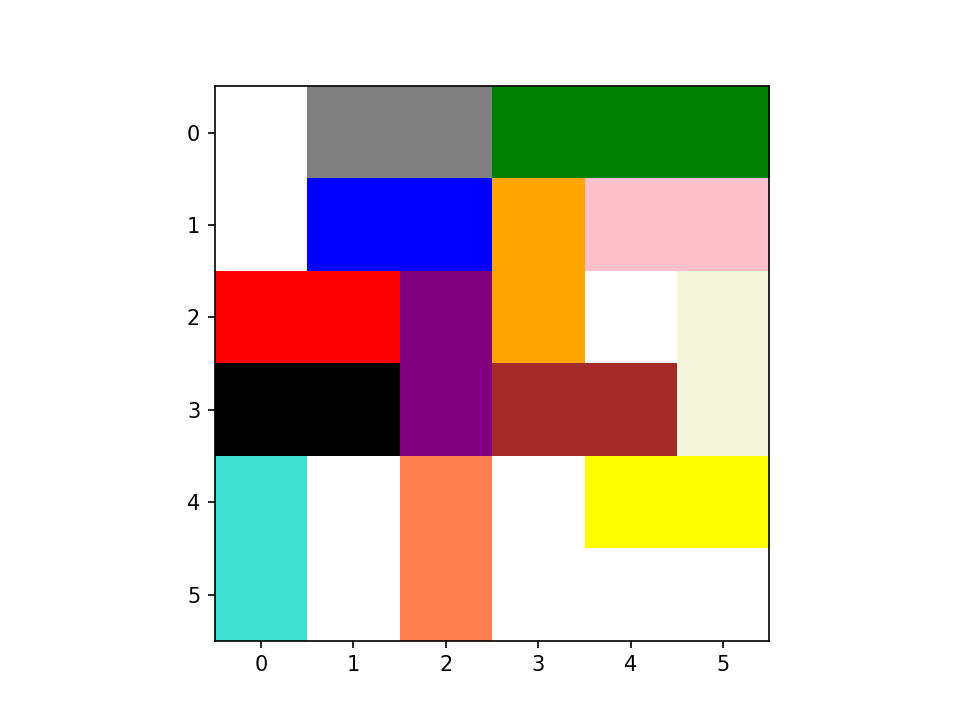
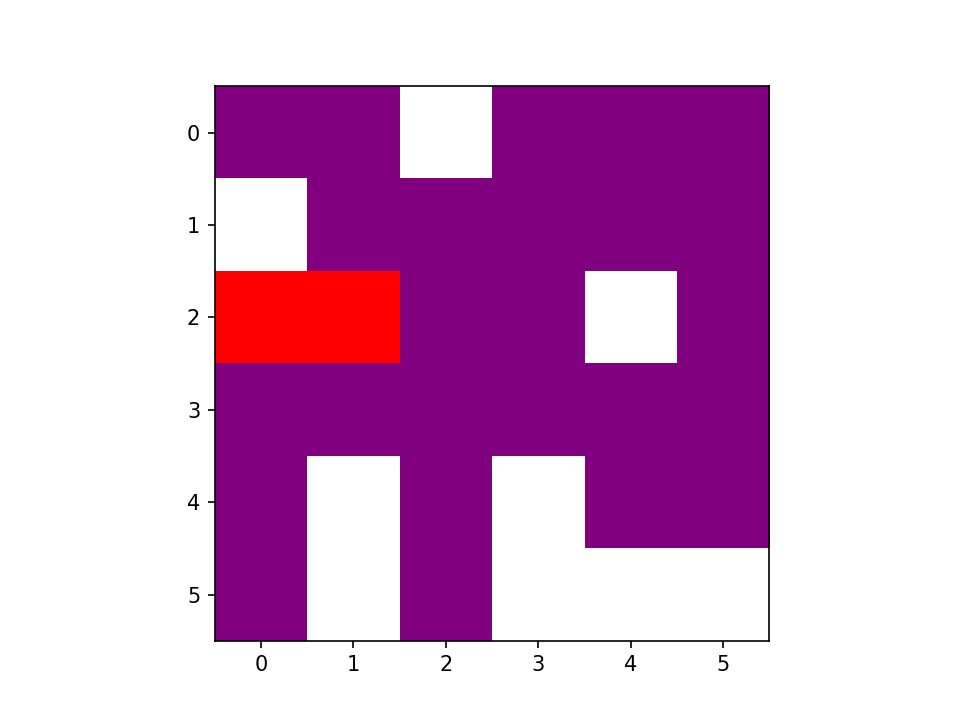
board visualisation by steps as input

Changed region(s): [[0.2188, 0.1222, 0.8125, 0.9167]]

diff --git a/board_visualisation.py b/board_visualisation.py
@@ -19,65 +19,45 @@ from breath_first2 import breath_first
 from depth_first import depth_first
 from improved_random import algoritme1
 
-
-def init_board(board, my_board, request_car, request_move):
-    """ Initialize the board with starting positions """
+def visualize_game(board, my_board):
+    """ Creates a numpy board """
     
-    count = 1
-    global cars 
-    cars = {}
-    for car in board.cars.values():
-        y = car.coordinates[0] 
-        x = car.coordinates[1]       
-        move = 0
-        if car.name == request_car:
-            move = request_move
-        # Saves coordinates of cars in list board
-        if(car.orientation=="V"):
-            for letter in range(car.length):
-                my_board[[x-letter+move], [y]] = count 
-                cars[car.name] = count
-                print(my_board)
-        else:
-            for letter in range(car.length):
-                my_board[[x], [y+letter+move]] = count
-                cars[car.name] = count
-        count += 1
-
+    for i in range(len(board.board)):
+        for n in range(len(board.board)):
+            if board.board[n][i] == ".":
+                my_board[[i], [n]] = 0
+            elif board.board[n][i] == "X":
+                my_board[[i], [n]] = 2
+            else:
+                my_board[[i], [n]] = 1
     return my_board
 
-def update_board(my_board):
-    """ Update the board based on the game rules, each call to update_board is one turn """
-    old_board = my_board.copy()
-    
-    return my_board
 
 def main():
     """ Animates rush hour game 6x6_1 """
-    request_car = ""
-    request_move = 0
     count = 0
+    steps = [["A", -1], ["B", -1]]
     cmap = colors.ListedColormap(['white', 'grey', 'green', 'blue', 'pink', 'orange', 'black','purple', 'brown', 'beige', 'yellow', 'turquoise', 'coral', 'red'])
     
     # Creates board
     board = Board("data/Rushhour6x6_1.csv")
     
-    # Input variables for the board
-    boardsize = board.length               
+    # Creates numpy board
+    my_board = np.zeros((board.length, board.length))
+    my_board = visualize_game(board, my_board)
     
-    my_board = np.zeros((boardsize,boardsize))
-    
-    for i in range(2):
-        print(my_board)
-        my_board = init_board(board, my_board, request_car, request_move)
-        print(my_board)
-        request_car = "A"
-        request_move = -1
+    for step in steps:
+        for car in board.cars.values():
+            if car.name == step[0]:
+                request_car = car
+                board.move(request_car, step[1])
+                my_board = visualize_game(board, my_board)
         
         fig = plt.gcf()
         im = plt.imshow(my_board, cmap=cmap, animated=True)              
 
         plt.savefig(fname=f'{count}game_of_life', dpi=150)
+    
         count += 1
         
     
